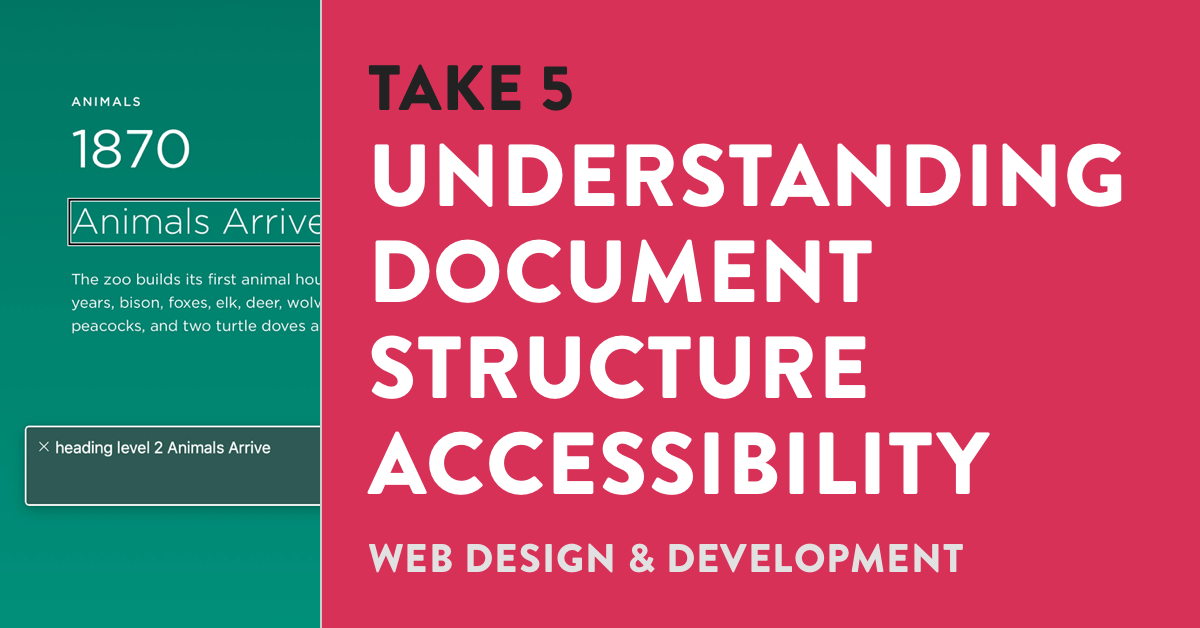
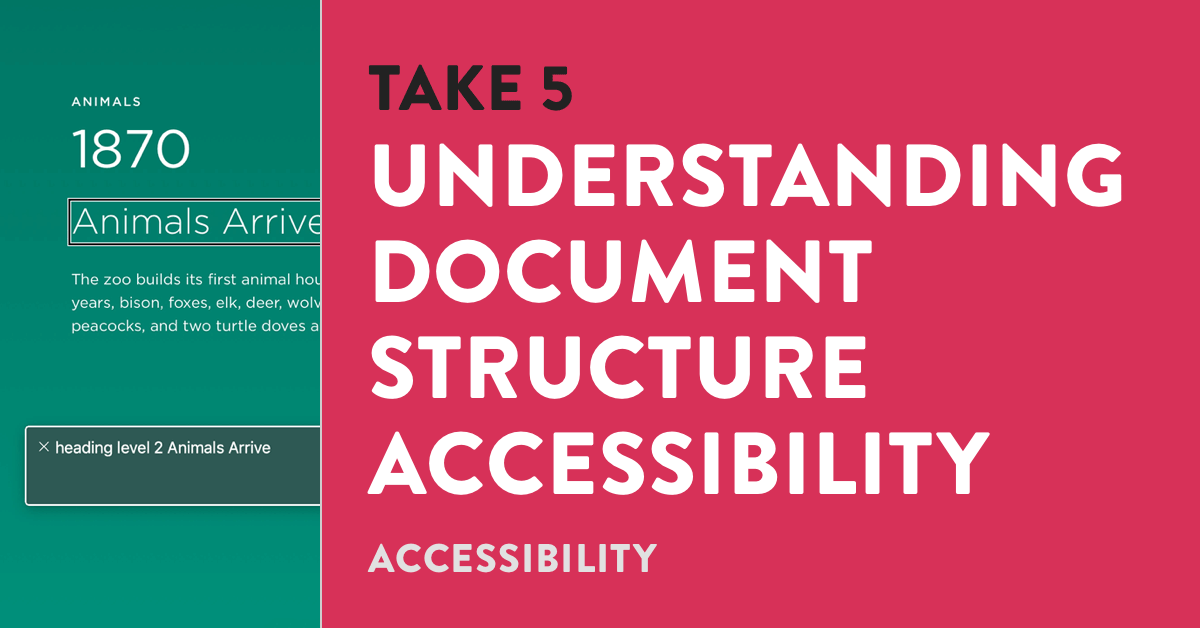
Add Accessibility topic to Take 5 catalog (#480)

Changed region(s): [[0.3083, 0.8471, 0.8017, 0.9076]]

diff --git a/take5/catalog.html b/take5/catalog.html
@@ -27,28 +27,28 @@ permalink: /static/take5/
 <header class="take5--about" id="about">
   <div class="container">
     <h1>Take 5</h1>
-    <p><strong>Learn a new skill in 5 minutes</strong> — video tutorials on web design and development, UX, prototyping, and career skills.</p>
+    <p><strong>Learn a new skill in 5 minutes.</strong><br>Video tutorials on accessibility, career skills, prototyping, user experience, and web design and development.</p>
   </div>
 </header>
 
-{%- assign pubdates = ""  | split: ", " -%}
-{%- assign publish_order = ""  | split: ", " -%}
-{% assign topics = ""  | split: ', '%}
+{%- assign pubdates = "" | split: ", " -%}
+{%- assign publish_order = "" | split: ", " -%}
+{% assign topics = "" | split: ', '%}
 
-{%- assign recent = ""  | split: ", " -%}
+{%- assign recent = "" | split: ", " -%}
 
 {% assign catalog = site.data.take5s | sort %}
 
 {% for take5_hash in catalog %}
     {% assign item = take5_hash[1] %}
     {% if item.live == true %}
-        {% assign topics = topics | push: item.topic  %}
+        {% assign topics = topics | push: item.topic %}
         {%- assign pubdates = pubdates | push: item.date -%}
     {% endif %}
 
 {% endfor %}
 
-{% assign unique_topics = topics | uniq | join: ', '|split: ', ' %}
+{% assign unique_topics = topics | uniq | reverse | join: ', '|split: ', ' %}
 
 {%- assign pubdates_sorted = pubdates | sort -%}
 
@@ -63,7 +63,7 @@ permalink: /static/take5/
 
 {%- endfor -%}
 
-{%- assign publish_order = publish_order | uniq | join: ', '|split: ', '  -%}
+{%- assign publish_order = publish_order | uniq | join: ', '|split: ', ' -%}
 
 {%- for item in publish_order -%}
 

diff --git a/_includes/take5/test-bottom.html b/_includes/take5/test-bottom.html
@@ -31,7 +31,9 @@
               <li><a href="/web-development">Web Development</a></li>
               <li><a href="/ux-design">UX Design</a></li>
               <li><a href="/prototyping">Prototyping</a></li>
-              <li><a href="/career-skills">Career Skills</a></li>
+              <!-- <li><a href="/career-skills">Career Skills</a></li> -->
+              <li><a href="/remote-work">Remote Work</a></li>
+              <li><a href="/accessibility">Accessibility</a></li>
             </ul>
           </section>
         </div>
